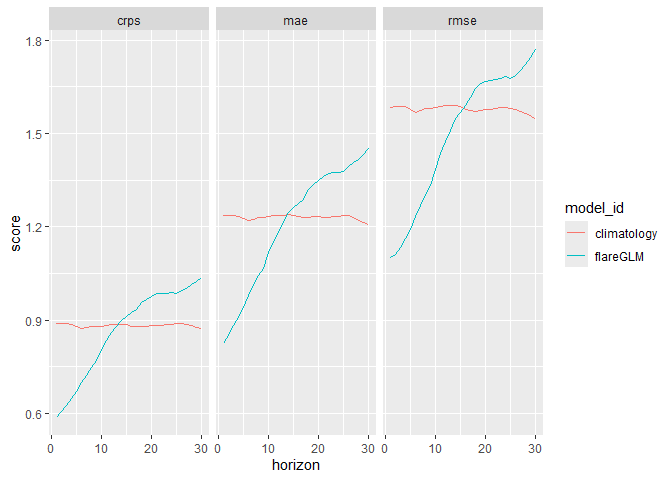
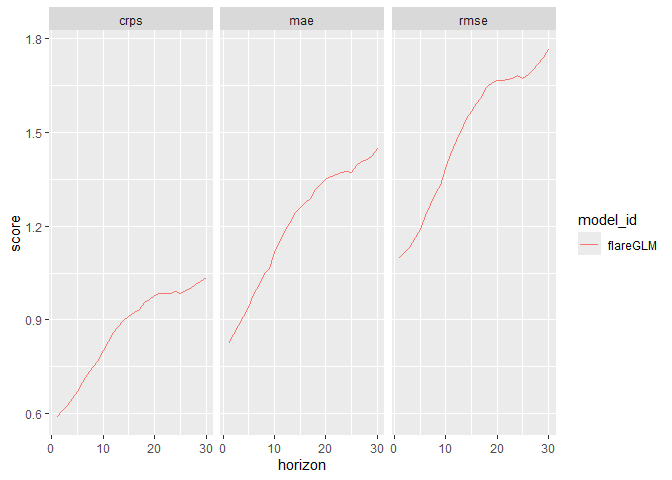
minor edits to text

diff --git a/tutorial/forecast-evaluation-tutorial.md b/tutorial/forecast-evaluation-tutorial.md
@@ -141,7 +141,16 @@ single_forecast <- arrow::open_dataset(phenology_scores_s3) |>
                 reference_datetime == reference_date_subset) |> 
   collect() |> 
   distinct()
+
+single_forecast |> 
+  ggplot(aes(x=datetime)) +
+  geom_ribbon(aes(ymax = quantile97.5, ymin = quantile02.5), alpha = 0.3) +
+  geom_line(aes(y = mean)) +
+  geom_point(aes(y = observation)) +
+  ylab(expression(bold(G[CC])))
 ```
+
+![](forecast-evaluation-tutorial_files/figure-markdown_github/access-catalog2-1.png)
 
 We can plot the mean prediction (solid line) compared to the
 observations (points) as a visual starting point for evaluating that
@@ -224,6 +233,9 @@ single_forecast |>
 ```
 
 ![](forecast-evaluation-tutorial_files/figure-markdown_github/unnamed-chunk-1-1.png)
+Plotting the forecast with its predictive intervals as well as the
+observations starts to show us the performance of the whole forecast
+distribution relative to the observations:
 
 ``` r
 single_forecast |> 
@@ -253,9 +265,9 @@ from being overly confident (high precision) about an inaccurate
 forecast. We use the convention for CRPS where zero is the lowest
 possible and best score.
 
-Another similar metric is the ignorance or log score (Jordan, Krüger,
-and Lerch 2019; Smith et al. 2015), which is also included in the scores
-table.
+Another similar metric is the ignorance or logarithic (log) score
+(Jordan, Krüger, and Lerch 2019; Smith et al. 2015), which is also
+included in the scores table.
 
 <figure>
 <img src="images/crps.png"
@@ -385,8 +397,8 @@ multiple_forecasts <- multiple_forecasts |>
 
 We can then summarise some of our metrics across horizon, to see how
 generally the model performs at different times into the future. Below
-we calculate the bias, rmse, sd, and crps (from the pre-scored column in
-the scores).
+we calculate the mae, rmse, and crps (from the pre-scored column in the
+scores).
 
 ``` r
 multiple_forecasts |> 
@@ -491,8 +503,8 @@ multi_site_forecasts |>
 ![](forecast-evaluation-tutorial_files/figure-markdown_github/access-catalog4-2.png)
 
 We see that the performance at CLBJ (Lyndon B. Johnson National
-Grassland, Texas) is higher than at HARV (Harvard Forest,
-Massachusetts).
+Grassland, Texas) is higher than at HARV (Harvard Forest, Massachusetts)
+and that the CLBJ forecasts are consistently underconfident.
 
 Another way we could look at these scores is to see how the performance
 varies by time of year. Perhaps we are better at particular times of
@@ -516,12 +528,16 @@ multiple_forecasts |>
 
 On this plot we see an increase in CRPS from April (as the leaves come
 out) and distinct peak in May/June (probably around peak greenness), and
-this is even more pronounced at longer horizons. More research questions
-could be asked about particular sites and times of year are more or less
+this is even more pronounced at longer horizons. There is a second peak
+in the fall when leaf off occurs. More research questions could be asked
+about why particular sites and times of year are more or less
 predictability, but for now we’ll move on to seeing if these patterns
 are consistent across models!
 
 ### 4.2.2 Comparing forecasts from different models
+
+We will extract a second model’s forecasts for the Harvard forest
+greenness - the `PEG` model.
 
 ``` r
 model_id_subset <- c('UCSC_P_EDM', 'PEG')
@@ -664,7 +680,8 @@ aquatic_forecasts |>
   mutate(horizon = as.numeric(as_date(datetime) - as_date(reference_datetime)),
          abs_error = abs(mean - observation), 
          sq_error = (mean - observation)^2) |>   
-  filter(between(horizon, 1,30))  |> 
+  filter(between(horizon, 1,30),
+         model_id == 'flareGLM')  |> 
   select(horizon, reference_datetime, model_id, site_id, abs_error, sq_error, crps) |> 
   group_by(horizon, model_id, site_id) |> 
   summarise(rmse = sqrt(mean(sq_error, na.rm = T)),
@@ -736,9 +753,9 @@ aquatic_forecasts |>
 
 ![](forecast-evaluation-tutorial_files/figure-markdown_github/aquatic-scores-1.png)
 
-We see that at the shortest horizons, our model (`flareGLM`) does better
-than the null but beyond a couple of weeks lead time the null
-climatology model does better.
+We see that at the shortest horizons, the model of interest (`flareGLM`)
+does better than the null but beyond a couple of weeks lead time the
+null climatology model does better.
 
 # 5 Take homes
 
@@ -865,7 +882,7 @@ considerations to be made.
 
 -   are we making equal comparisons?
 
-For the aquatics example we are comparing 1059 climatology forecasts to
+For the aquatics example we are comparing 1060 climatology forecasts to
 863 flareGLM forecasts - is this okay? What about if our phenology model
 only forecasted greenness during the winter (easy) and not in spring
 (harder), would this be a fair comparison?
